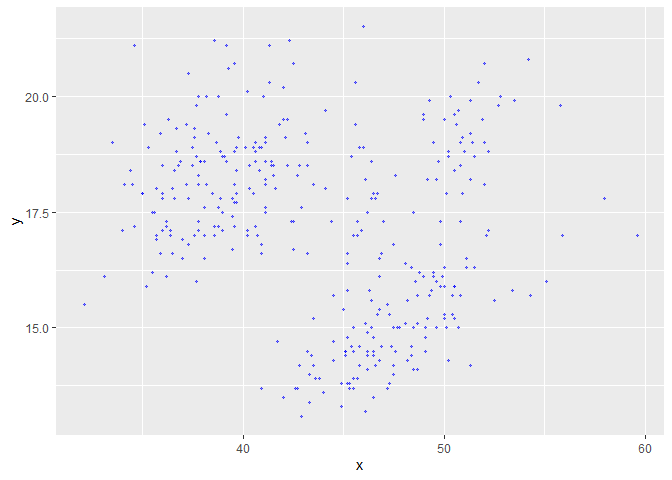
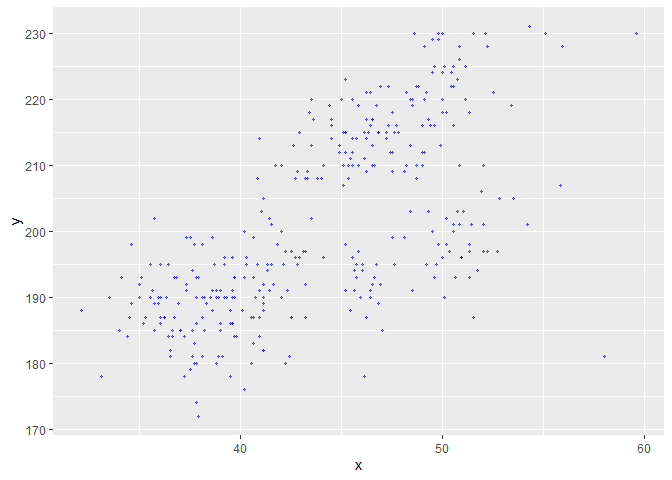
final_copy

diff --git a/AssignmentB1_NH.md b/AssignmentB1_NH.md
@@ -133,7 +133,7 @@ easyplot(cancer_sample$radius_mean, cancer_sample$area_mean)
 ```
 
 ``` r
-easyplot(palmerpenguins::penguins$bill_length_mm,palmerpenguins::penguins$bill_depth_mm)
+easyplot(palmerpenguins::penguins$bill_length_mm,palmerpenguins::penguins$flipper_length_mm)
 ```
 
     ## Warning: Removed 2 rows containing missing values (`geom_point()`).
@@ -141,7 +141,7 @@ easyplot(palmerpenguins::penguins$bill_length_mm,palmerpenguins::penguins$bill_d
 ![](AssignmentB1_NH_files/figure-gfm/unnamed-chunk-6-1.png)<!-- -->
 
 ``` r
-#I want to look at the relationship between penguin bill length and penguin bill depth using the palmer penguins dataset, I am using the easyplot function to quickly see if there is a pattern between these variables. There doesn't seem to be a clear pattern between these variables. 
+#I want to look at the relationship between penguin bill length and penguin flipper length using the palmer penguins dataset, I am using the easyplot function to quickly see if there is a pattern between these variables. There is a slight pattern seen resulting in a positive correlation between bill and flipper length.  
 ```
 
 ``` r
@@ -162,7 +162,7 @@ test_that("Function uses the correct given dataset", {
 }) 
 ```
 
-    ## Test passed 🥳
+    ## Test passed 🌈
 
 ``` r
 test_that("Function needs a dataset and varibles, not just a string of numbers", {
@@ -170,7 +170,7 @@ test_that("Function needs a dataset and varibles, not just a string of numbers",
 })
 ```
 
-    ## Test passed 🎉
+    ## Test passed 🎊
 
 ``` r
 test_that("Function can only use numerical dataset", {
@@ -178,7 +178,7 @@ test_that("Function can only use numerical dataset", {
 })
 ```
 
-    ## Test passed 🌈
+    ## Test passed 🥳
 
 ``` r
 #I inputted a categorical variable 
